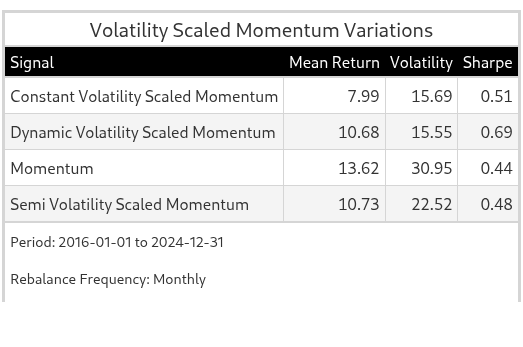
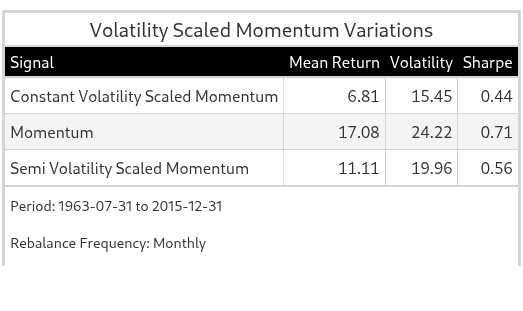
Updated results.

diff --git a/research/experiments/experiment_9.py b/research/experiments/experiment_9.py
@@ -9,9 +9,9 @@ from pathlib import Path
 import seaborn as sns
 import matplotlib.pyplot as plt
 
-def experiment_8():
-    start = dt.date(1963, 7, 31)
-    end = dt.date(2015, 12, 31)  
+def experiment_9():
+    start = dt.date(2016, 1, 1)
+    end = dt.date(2024, 12, 31)    
     n_bins = 10
     weighting_scheme = "market_cap"
     rebalance_frequency = "monthly"
@@ -102,7 +102,7 @@ def experiment_8():
     )
 
     title = "Volatility Scaled Momentum Variations"
-    file_path = "results/experiment_8/combined"
+    file_path = "results/experiment_9/combined"
     Path(file_path).parent.mkdir(parents=True, exist_ok=True)
 
     table = (
@@ -146,4 +146,4 @@ def experiment_8():
     plt.savefig(Path(file_path + "_chart").with_suffix(".png"))
 
 if __name__ == '__main__':
-    experiment_8()
+    experiment_9()

diff --git a/research/experiments/__main__.py b/research/experiments/__main__.py
@@ -6,6 +6,7 @@ from experiment_5 import experiment_5
 from experiment_6 import experiment_6
 from experiment_7 import experiment_7
 from experiment_8 import experiment_8
+from experiment_9 import experiment_9
 
 def main():
     print("Running experiment 1...")
@@ -31,6 +32,9 @@ def main():
 
     print("Running experiment 8...")
     experiment_8()
+
+    print("Running experiment 9...")
+    experiment_9()
 
 if __name__ == '__main__':
     main()

diff --git a/research/experiments/experiment_7.py b/research/experiments/experiment_7.py
@@ -17,7 +17,7 @@ def experiment_7():
     rebalance_frequency = "monthly"
     annualize_results = True
 
-    signal_names = ["momentum", "constant_volatility_scaled_momentum", "semi_volatility_scaled_momentum", "dynamic_volatility_scaled_momentum"]
+    signal_names = ["momentum", "constant_volatility_scaled_momentum", "semi_volatility_scaled_momentum"]
     filter_names = [
         "low-price-stocks",
         "null-signal",
